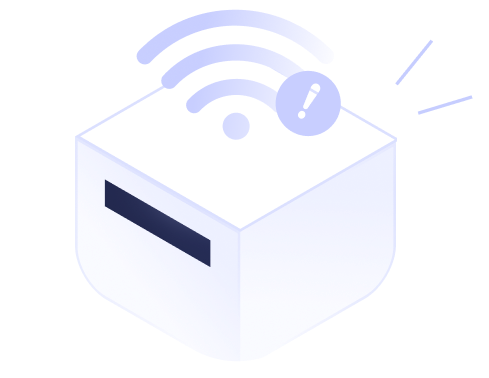
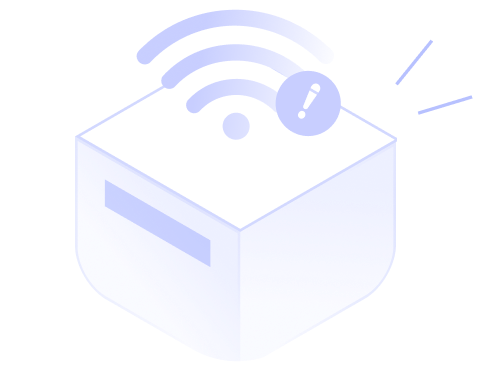
feat: add webview error (#1115)
* feat: add webview error

* fix: image

* fix: image

* chore

Pull request: feat: add webview error

Changed region(s): [[0.2147, 0.4656, 0.4294, 0.6984]]

diff --git a/apps/mobile/src/screens/Browser/BrowserScreen/components/BrowserTab/WebivewError.tsx b/apps/mobile/src/screens/Browser/BrowserScreen/components/BrowserTab/WebivewError.tsx
@@ -1,0 +1,85 @@
+import OfflinePng from '@/assets2024/images/offline.png';
+import OfflineDarkPng from '@/assets2024/images/offline-dark.png';
+import { Button } from '@/components2024/Button';
+import { useTheme2024 } from '@/hooks/theme';
+import { createGetStyles2024 } from '@/utils/styles';
+import { useTranslation } from 'react-i18next';
+import { Image, StyleProp, Text, View, ViewStyle } from 'react-native';
+
+interface Props {
+  message: string;
+  style?: StyleProp<ViewStyle>;
+  onRefresh?: () => void;
+}
+export function WebviewError({ style, message, onRefresh }: Props) {
+  const { styles, isLight } = useTheme2024({
+    getStyle,
+  });
+  const { t } = useTranslation();
+
+  return (
+    <View style={[styles.container, style]}>
+      <Image
+        style={styles.img}
+        source={isLight ? OfflinePng : OfflineDarkPng}
+      />
+      <View style={styles.content}>
+        <Text style={styles.text}>
+          {t('page.browser.WebviewError.failedToLoad')}
+        </Text>
+        <Text style={styles.text}>
+          {t('page.browser.WebviewError.error')} {message}
+        </Text>
+      </View>
+      <Button
+        type="primary"
+        title={t('global.refresh')}
+        onPress={onRefresh}
+        buttonStyle={styles.btn}
+        titleStyle={styles.btnText}
+      />
+    </View>
+  );
+}
+
+const getStyle = createGetStyles2024(({ colors2024 }) => ({
+  container: {
+    justifyContent: 'center',
+    alignItems: 'center',
+    position: 'absolute',
+    top: 0,
+    left: 0,
+    bottom: 0,
+    right: 0,
+    zIndex: 99999999999,
+    backgroundColor: colors2024['neutral-bg-1'],
+  },
+  img: {
+    width: 163,
+    height: 126,
+  },
+  content: {
+    marginBottom: 12,
+    marginTop: 4,
+    paddingHorizontal: 20,
+  },
+  text: {
+    fontSize: 16,
+    lineHeight: 22,
+    fontFamily: 'SF Pro Rounded',
+    fontWeight: '400',
+    color: colors2024['neutral-secondary'],
+    textAlign: 'center',
+  },
+  btn: {
+    borderRadius: 6,
+    paddingVertical: 4,
+    paddingHorizontal: 12,
+    width: 'auto',
+    height: 'auto',
+  },
+  btnText: {
+    fontSize: 16,
+    fontWeight: '700',
+  },
+}));

diff --git a/apps/mobile/src/screens/Browser/BrowserScreen/components/BrowserTab/index.tsx b/apps/mobile/src/screens/Browser/BrowserScreen/components/BrowserTab/index.tsx
@@ -66,13 +66,13 @@ import { BrowserProgressBar } from './BrowserProgressBar';
 import { EVENT_BROWSER_ACTION, eventBus } from '@/utils/events';
 import { Freeze } from 'react-freeze';
 import { HyperliquidInvitePopup } from './HyperliquidInvitePopup';
-import { useSafeSizes } from '@/hooks/useAppLayout';
 import { PERPS_INVITE_URL } from '@/constant/perps';
 import { CurrentDappPopup } from './CurrentDappPopup';
 import { AccountSelectorPopup } from '@/components2024/AccountSelector/AccountSelectorPopup';
 import { useHyperliquidReferral } from '../../hooks/useHyperliquidReferral';
 import { useAccounts } from '@/hooks/account';
 import { getOnlineConfig } from '@/core/config/online';
+import { WebviewError } from './WebivewError';
 
 type BrowserTabProps = {
   origin: string;
@@ -413,6 +413,16 @@ export const BrowserTab = React.forwardRef<BrowserRef, BrowserTabProps>(
         }
 
         onOpenTab?.(targetUrl);
+      },
+    );
+
+    const renderError = useMemoizedFn(
+      (
+        errorDomain: string | undefined,
+        errorCode: number,
+        errorDesc: string,
+      ) => {
+        return <WebviewError message={errorDesc} onRefresh={handleReload} />;
       },
     );
 
@@ -800,6 +810,7 @@ export const BrowserTab = React.forwardRef<BrowserRef, BrowserTabProps>(
                           };
                         });
                       }}
+                      renderError={renderError}
                       onMessage={event => {
                         // // leave here for debug
                         // if (__DEV__) {